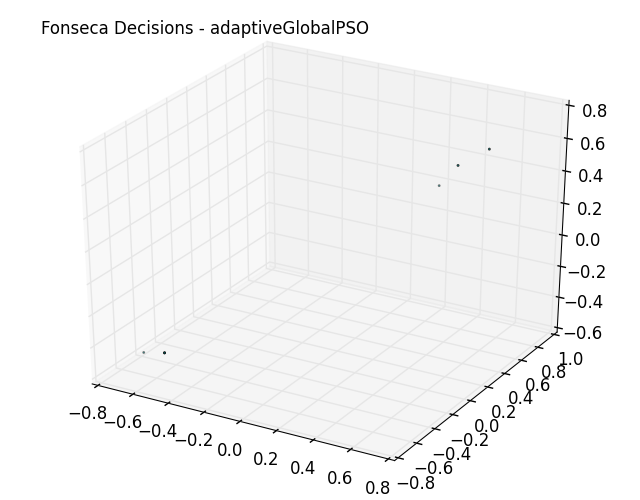
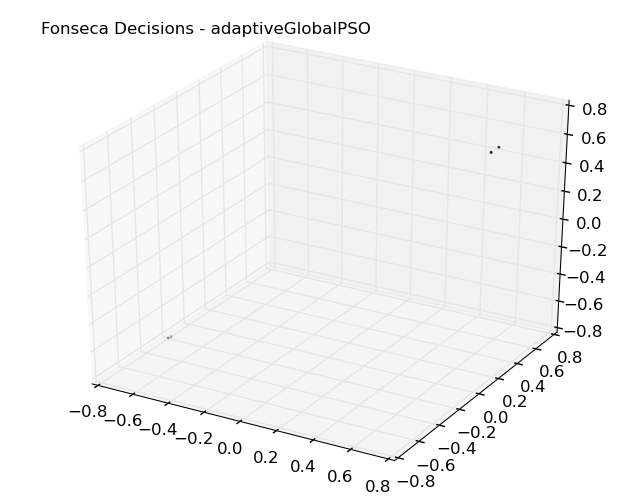
fixed small bug in V2

diff --git a/project/PSOv2.py b/project/PSOv2.py
@@ -41,7 +41,7 @@ def repulsion(c1, c2, radius):
     return force
 
 def PSOv2(model, retries, changes, graph=False, goal = 0.01, pat = 100, \
-era = 100, np=30, phi_1=3.8, phi_2=2.2, personalListSize=5):
+era = 100, np=30, phi_1=3.8, phi_2=2.2, personalListSize=5, out='out.txt'):
     g = grapher(model, int(retries), 1, changes, "PSOv2")
     emin = 0
     phi_tot = phi_1 + phi_2
@@ -52,7 +52,7 @@ era = 100, np=30, phi_1=3.8, phi_2=2.2, personalListSize=5):
     baseRadius = vmax/float(model.numOfDecisions())
 
     s = gens(model, np, personalListSize)
-    st = state(model.name, 'adaptiveGlobalPSO', s, 0, retries, changes, era)
+    st = state(model.name, 'adaptiveGlobalPSO', s, 0, retries, changes, era, out=out)
     st.sb = st.s[0].pos
     bestcan = st.s[0]
     tot_deaths = 0

diff --git a/project/test.py b/project/test.py
@@ -15,8 +15,8 @@ Three_D_List = [DTLZ1, DTLZ2, DTLZ3, DTLZ4, DTLZ5, DTLZ6, DTLZ7, Viennet2, Vienn
 num_retries = 30.0
 num_changes = 500.0
 
-for m in [Two_D_List]:
-    for o in [adaptiveGlobalPSO]:
+for m in Two_D_List:
+    for o in [PSOv2]:
         #Absolutely do not pass integers for retries or changes
         if(len(sys.argv) > 1):
           o(m, num_retries, num_changes, out=sys.argv[1])
